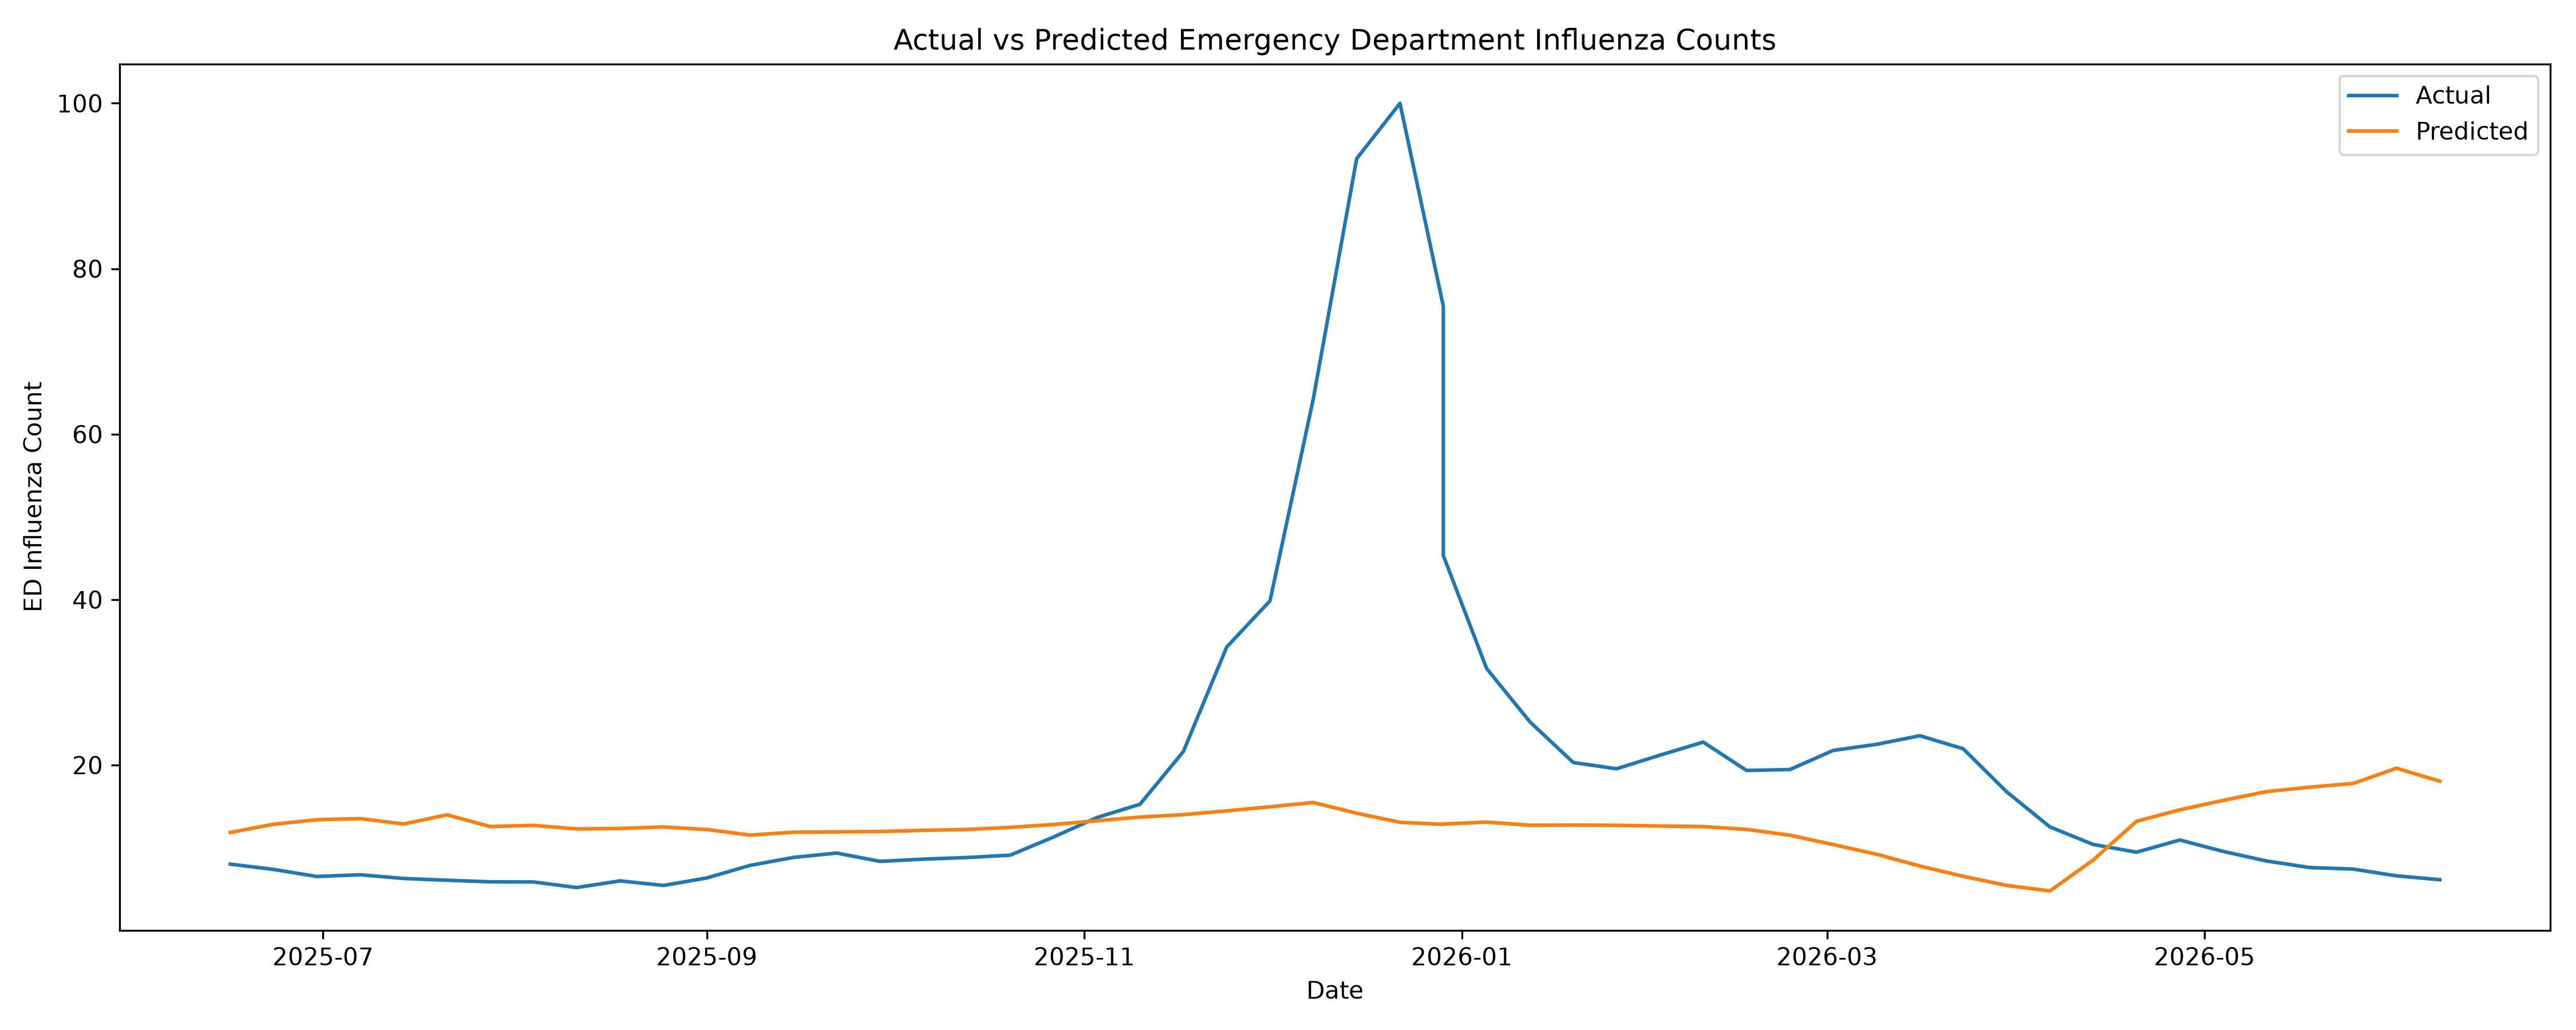
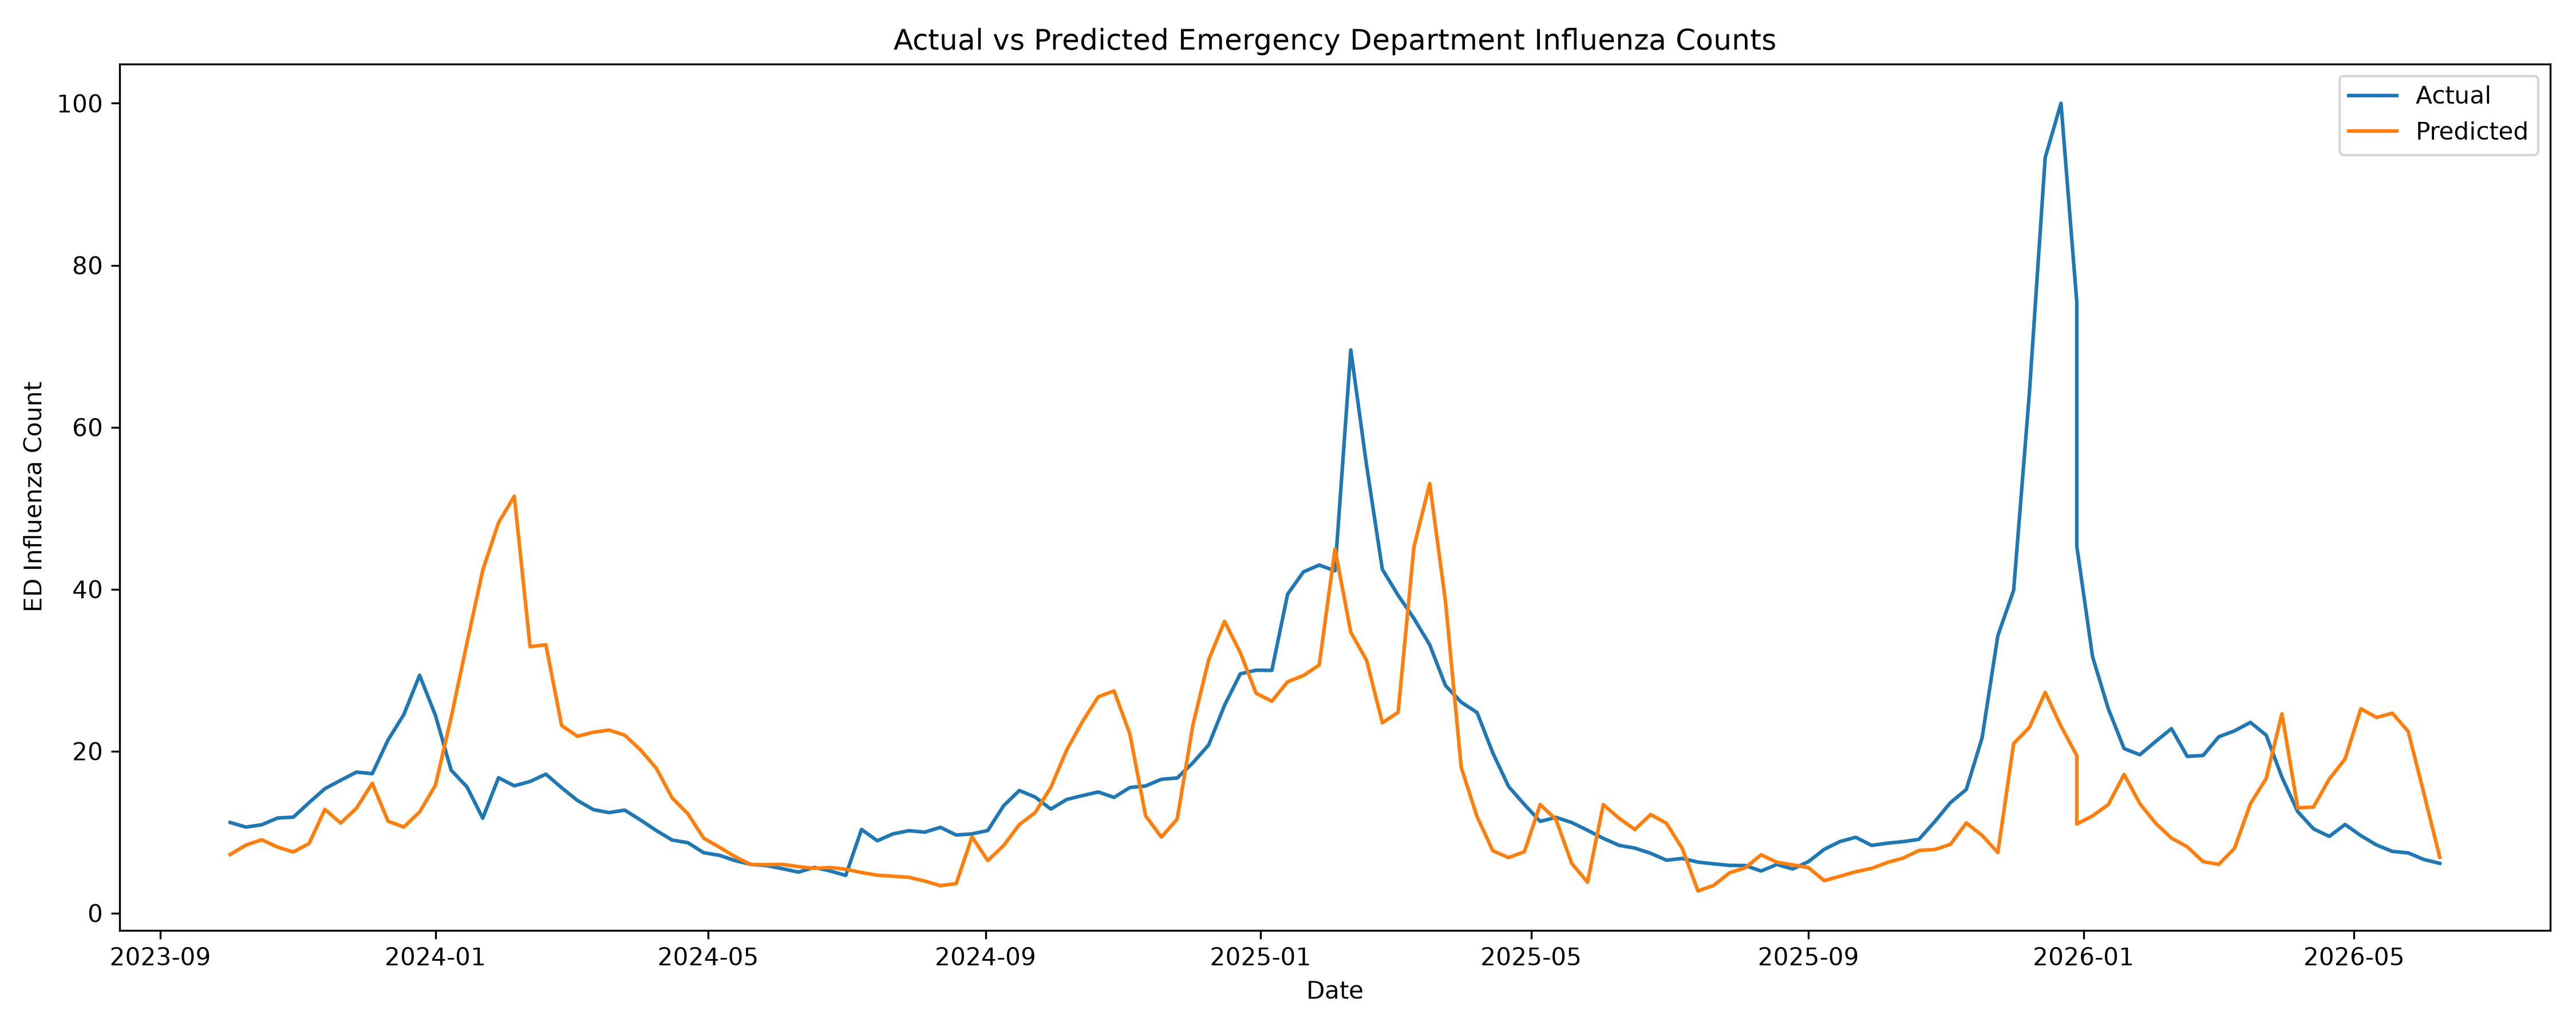
NN update

diff --git a/neural_net/Jake/training_v2.py b/neural_net/Jake/training_v2.py
@@ -40,6 +40,7 @@ exclude_keywords = [
     "emergencyDepartment",   # do not use ED-derived predictors when forecasting ED
     "baseline",              # often derived from historical smoothing
     "averageRolling7Day",    # smoothed versions, usually redundant
+    "Waste_water",          # temp removal
 ]
 
 feature_cols = []